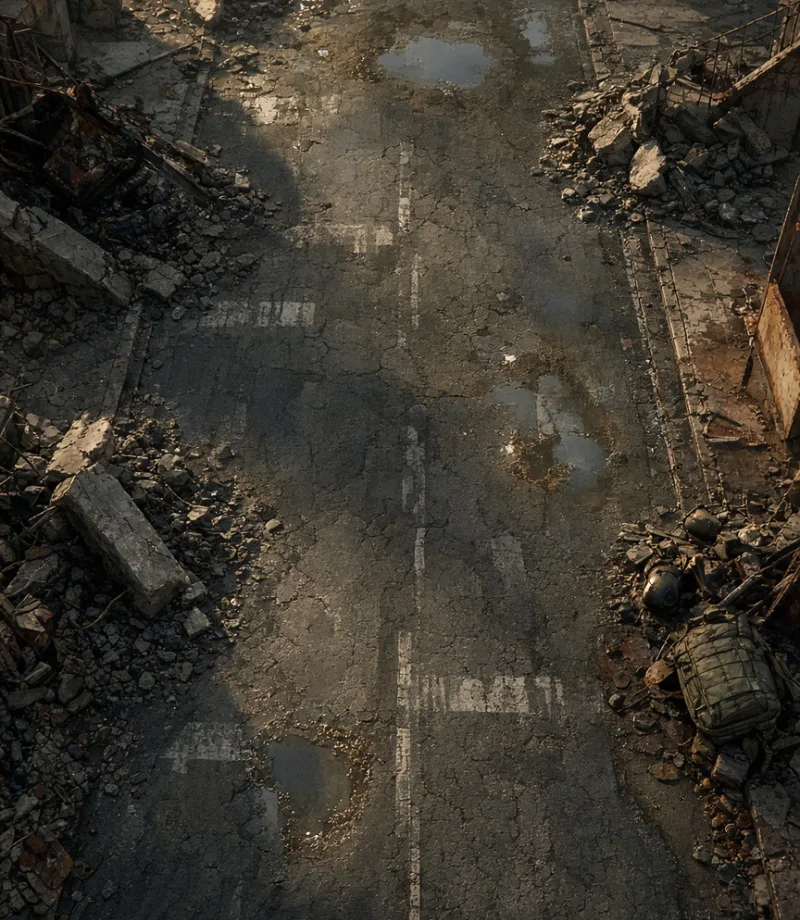
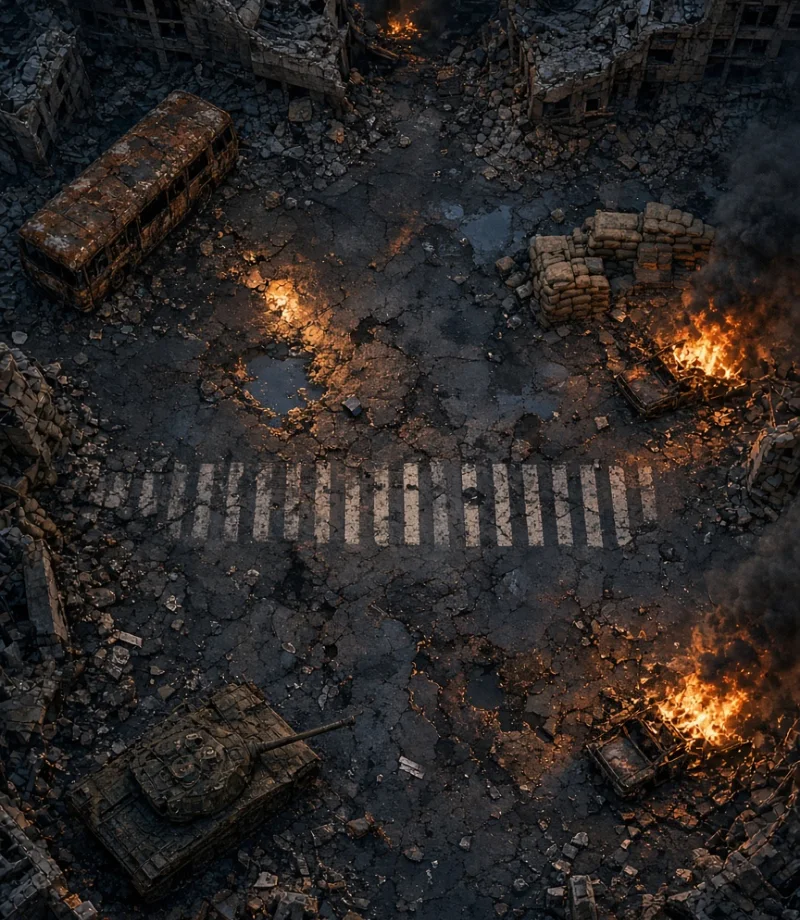
Art: richer painted world map and a burning city battlefield
Claude-Session: https://claude.ai/code/session_01CEmTc3DfYBJWMcPaphC7ZT

diff --git a/tools/art/prompts.py b/tools/art/prompts.py
@@ -35,7 +35,7 @@ U = {
 }
 for k, v in U.items(): a("unit-" + k, "Photorealistic character sprite: " + v + ".", "unit")
 # battle
-a("battle-bg", "Tactical battlefield seen from above at a steep angle: a cracked asphalt street in a ruined city with rubble, puddles, faded road markings, burned debris only at the edges, the center completely open and flat, no people, no vehicles in the middle.", "bg", "3:4")
+a("battle-bg", "Straight top-down overhead drone view, looking directly down, no horizon, no sky: a ruined city square after heavy fighting at sunset. Around the edges of the frame: roofs of collapsed concrete buildings, a burned-out rusty bus seen from above, a wrecked tank seen from above, sandbag barricades, concrete blocks, burning cars with bright orange flames and drifting black smoke, rubble piles. The large centre area is open flat cracked dark asphalt with puddles reflecting orange fire light, a faded zebra crossing and small debris, clear for combat. No people. Warm fire glow against cool blue shadows, cinematic, ultra detailed, sharp.", "bg", "3:4")
 a("rock1", "A cover obstacle: a burned-out rusty car wreck.")
 a("rock2", "A cover obstacle: a pile of concrete road barriers and sandbags.")
 # heroes (screen)
